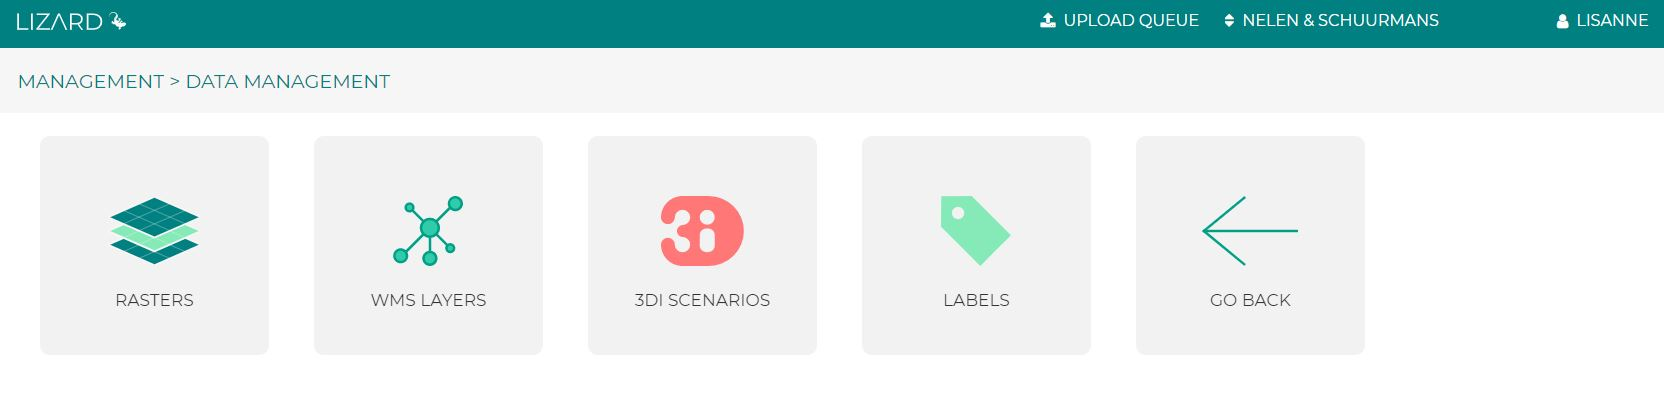
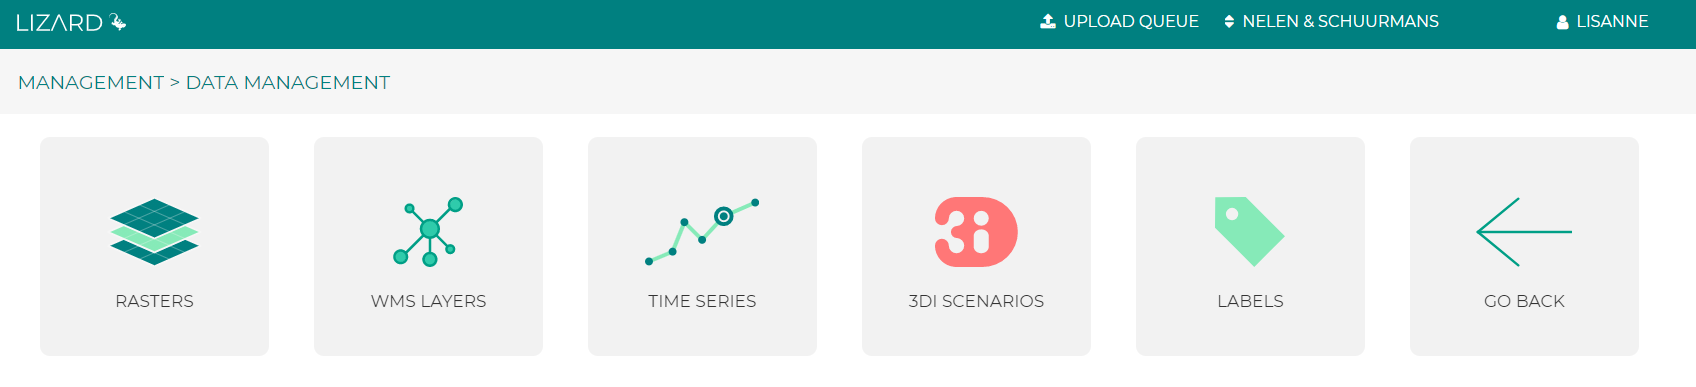
update general mangement

diff --git a/source/c_general.rst b/source/c_general.rst
@@ -3,7 +3,7 @@ General
 ================
 
 
-In the data management interface you manage rasters, wms layers, 3di scenarios and labels.
+In the data management interface you manage rasters, wms layers, time series, 3di scenarios and labels.
  
 
 .. image:: /images/c_datatypes_01.png
